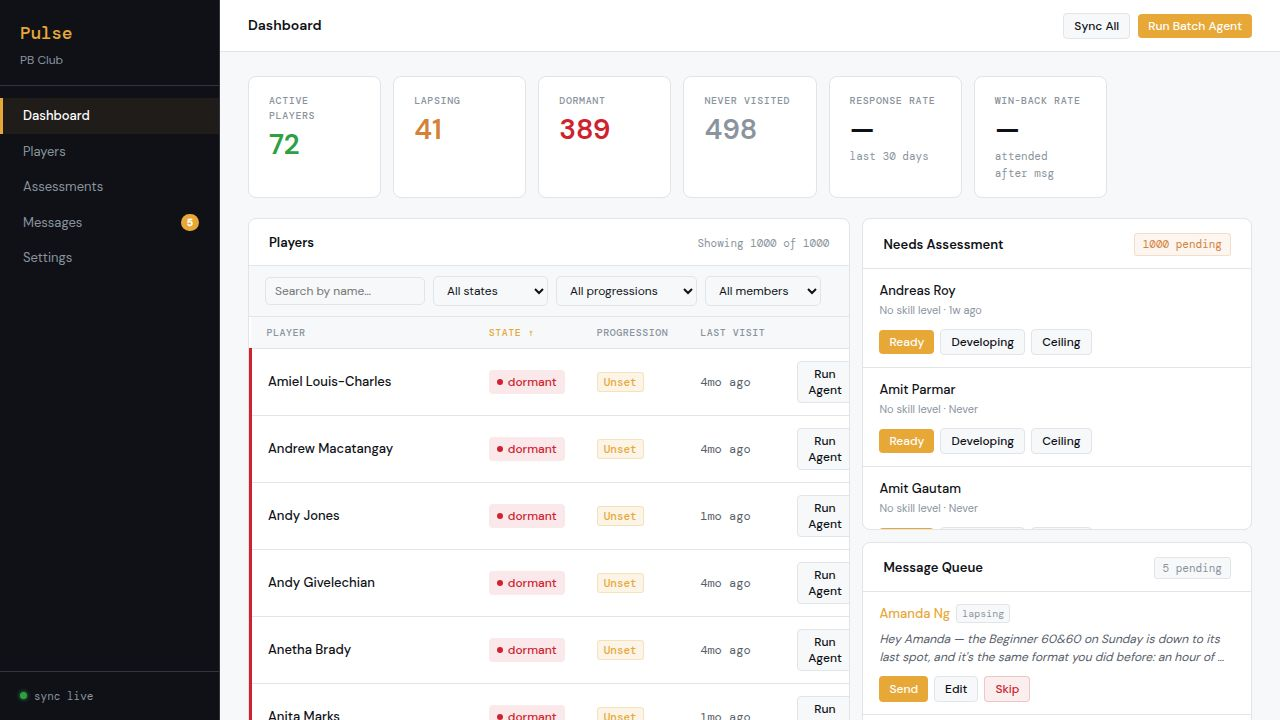
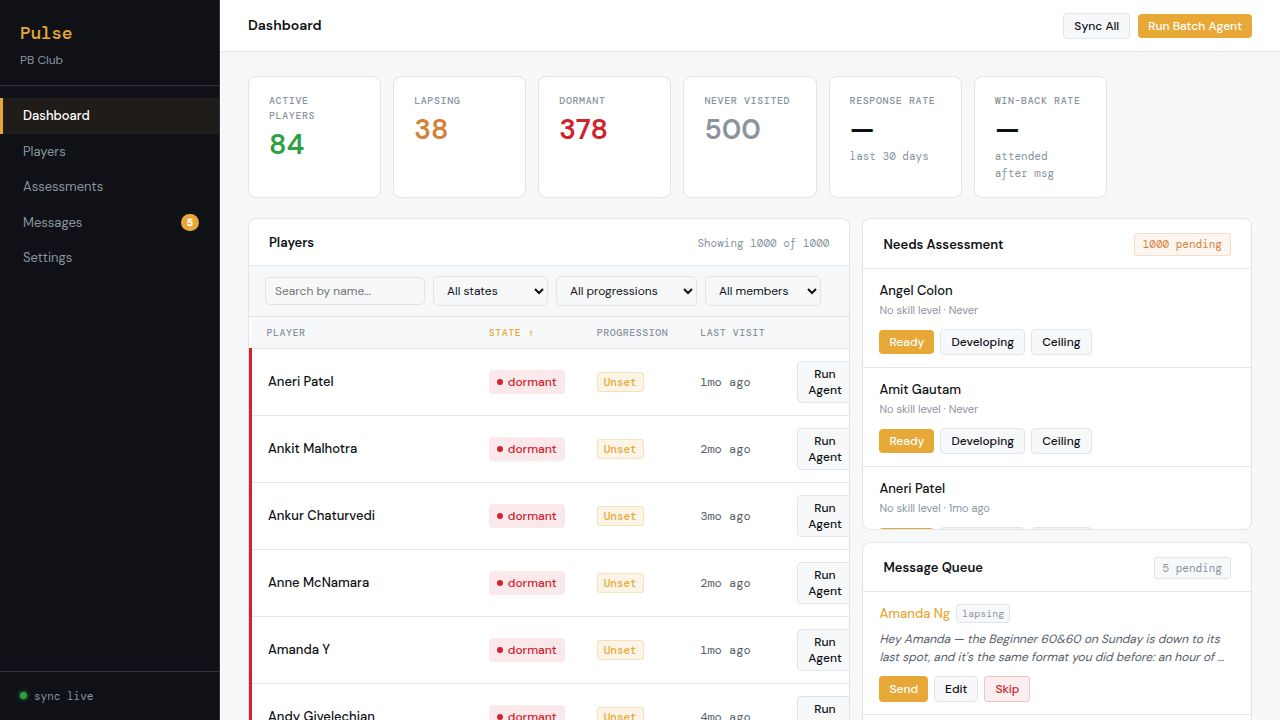
Implement pagination for all player data fetches across the dashboard and API
Refactors data fetching in `Players.tsx`, `Dashboard.tsx`, `Assessments.tsx`, and `sync.ts` to use paginated queries, resolving issues with incomplete data loads and ensuring all player records are retrieved.

Replit-Commit-Author: Agent
Replit-Commit-Session-Id: ec6ec498-45b5-4abc-abae-a31ecb17885c
Replit-Commit-Checkpoint-Type: full_checkpoint
Replit-Commit-Event-Id: 77e2293f-fea0-4e33-9fbf-35fc70ddb104
Replit-Commit-Screenshot-Url: https://storage.googleapis.com/screenshot-production-us-central1/83f9f448-559b-4e96-84c2-91a058e1c635/ec6ec498-45b5-4abc-abae-a31ecb17885c/Vl8JN88
Replit-Helium-Checkpoint-Created: true

diff --git a/artifacts/api-server/src/routes/sync.ts b/artifacts/api-server/src/routes/sync.ts
@@ -41,26 +41,45 @@ async function runSyncAll() {
   let players: any[] = [];
   let hasLastSyncedAt = true;
 
-  const withCol = await supabase
+  // Probe whether last_synced_at column exists with a single-row check
+  const probe = await supabase
     .from("players")
     .select("id, external_id, last_synced_at")
-    .not("external_id", "is", null);
+    .not("external_id", "is", null)
+    .limit(1);
 
-  if (withCol.error) {
-    if (withCol.error.code === "42703" || withCol.error.message?.includes("last_synced_at")) {
-      await appendJobLog(JOB_SYNC_ALL, "last_synced_at column missing — syncing all players");
-      hasLastSyncedAt = false;
-      const fallback = await supabase
+  if (probe.error && (probe.error.code === "42703" || probe.error.message?.includes("last_synced_at"))) {
+    await appendJobLog(JOB_SYNC_ALL, "last_synced_at column missing — syncing all players");
+    hasLastSyncedAt = false;
+    let offset = 0;
+    while (true) {
+      const { data, error } = await supabase
         .from("players")
         .select("id, external_id")
-        .not("external_id", "is", null);
-      if (fallback.error) throw new Error(fallback.error.message);
-      players = fallback.data ?? [];
-    } else {
-      throw new Error(withCol.error.message);
+        .not("external_id", "is", null)
+        .range(offset, offset + 999);
+      if (error) throw new Error(error.message);
+      if (!data || data.length === 0) break;
+      players.push(...data);
+      if (data.length < 1000) break;
+      offset += 1000;
     }
+  } else if (probe.error) {
+    throw new Error(probe.error.message);
   } else {
-    players = withCol.data ?? [];
+    let offset = 0;
+    while (true) {
+      const { data, error } = await supabase
+        .from("players")
+        .select("id, external_id, last_synced_at")
+        .not("external_id", "is", null)
+        .range(offset, offset + 999);
+      if (error) throw new Error(error.message);
+      if (!data || data.length === 0) break;
+      players.push(...data);
+      if (data.length < 1000) break;
+      offset += 1000;
+    }
   }
 
   const eligible = hasLastSyncedAt

diff --git a/artifacts/dashboard/src/pages/Dashboard.tsx b/artifacts/dashboard/src/pages/Dashboard.tsx
@@ -763,11 +763,7 @@ export default function Dashboard() {
   }, []);
 
   const fetchData = useCallback(async () => {
-    const [playersRes, clubRes, outboundRes, inboundRes, winbackData] = await Promise.all([
-      supabase
-        .from("players")
-        .select("id, external_id, name, skill_level, membership_status, progression_status, last_visit_date, phone, notes, club_id, last_outbound_at")
-        .limit(2000),
+    const [clubRes, outboundRes, inboundRes, winbackData] = await Promise.all([
       supabase.from("clubs").select("name").limit(1).maybeSingle(),
       supabase.from("messages").select("id", { count: "exact", head: true })
         .eq("direction", "outbound")
@@ -778,7 +774,20 @@ export default function Dashboard() {
         .gte("created_at", new Date(Date.now() - 30 * 86400000).toISOString()),
       fetch("/api/players/winback-stats").then((r) => r.ok ? r.json() : null).catch(() => null),
     ]);
-    if (playersRes.data) setPlayers(playersRes.data as Player[]);
+
+    const allPlayers: Player[] = [];
+    let offset = 0;
+    while (true) {
+      const { data } = await supabase
+        .from("players")
+        .select("id, external_id, name, skill_level, membership_status, progression_status, last_visit_date, phone, notes, club_id, last_outbound_at")
+        .range(offset, offset + 999);
+      if (!data || data.length === 0) break;
+      allPlayers.push(...(data as Player[]));
+      if (data.length < 1000) break;
+      offset += 1000;
+    }
+    setPlayers(allPlayers);
     if (clubRes.data?.name) setClubName(clubRes.data.name);
     const outCount = outboundRes.count ?? 0;
     const inCount = inboundRes.count ?? 0;

diff --git a/artifacts/dashboard/src/pages/Assessments.tsx b/artifacts/dashboard/src/pages/Assessments.tsx
@@ -56,18 +56,26 @@ export default function Assessments() {
   const [checkmarks, setCheckmarks] = useState<Set<string>>(new Set());
 
   const fetchData = async () => {
-    const [playersRes, clubRes] = await Promise.all([
-      supabase
+    const clubRes = await supabase.from("clubs").select("name").limit(1).maybeSingle();
+    if (clubRes.data?.name) setClubName(clubRes.data.name);
+
+    const allPlayers: Player[] = [];
+    let offset = 0;
+    while (true) {
+      const { data } = await supabase
         .from("players")
         .select(
           "id, external_id, name, skill_level, membership_status, progression_status, last_visit_date, phone, notes, club_id"
         )
         .is("progression_status", null)
-        .order("last_visit_date", { ascending: false, nullsFirst: false }),
-      supabase.from("clubs").select("name").limit(1).maybeSingle(),
-    ]);
-    if (playersRes.data) setPlayers(playersRes.data as Player[]);
-    if (clubRes.data?.name) setClubName(clubRes.data.name);
+        .order("last_visit_date", { ascending: false, nullsFirst: false })
+        .range(offset, offset + 999);
+      if (!data || data.length === 0) break;
+      allPlayers.push(...(data as Player[]));
+      if (data.length < 1000) break;
+      offset += 1000;
+    }
+    setPlayers(allPlayers);
     setLoading(false);
   };
 

diff --git a/artifacts/dashboard/src/pages/Players.tsx b/artifacts/dashboard/src/pages/Players.tsx
@@ -182,17 +182,24 @@ export default function Players() {
   const [bulkModalOpen, setBulkModalOpen] = useState(false);
 
   const fetchData = async () => {
-    const [playersRes, clubRes] = await Promise.all([
-      supabase
+    const clubRes = await supabase.from("clubs").select("name").limit(1).maybeSingle();
+    if (clubRes.data?.name) setClubName(clubRes.data.name);
+
+    const allPlayers: Player[] = [];
+    let offset = 0;
+    while (true) {
+      const { data } = await supabase
         .from("players")
         .select(
           "id, external_id, name, skill_level, membership_status, progression_status, last_visit_date, phone, notes, club_id, sms_opt_in"
         )
-        .limit(2000),
-      supabase.from("clubs").select("name").limit(1).maybeSingle(),
-    ]);
-    if (playersRes.data) setPlayers(playersRes.data as Player[]);
-    if (clubRes.data?.name) setClubName(clubRes.data.name);
+        .range(offset, offset + 999);
+      if (!data || data.length === 0) break;
+      allPlayers.push(...(data as Player[]));
+      if (data.length < 1000) break;
+      offset += 1000;
+    }
+    setPlayers(allPlayers);
     setLoading(false);
   };
 
